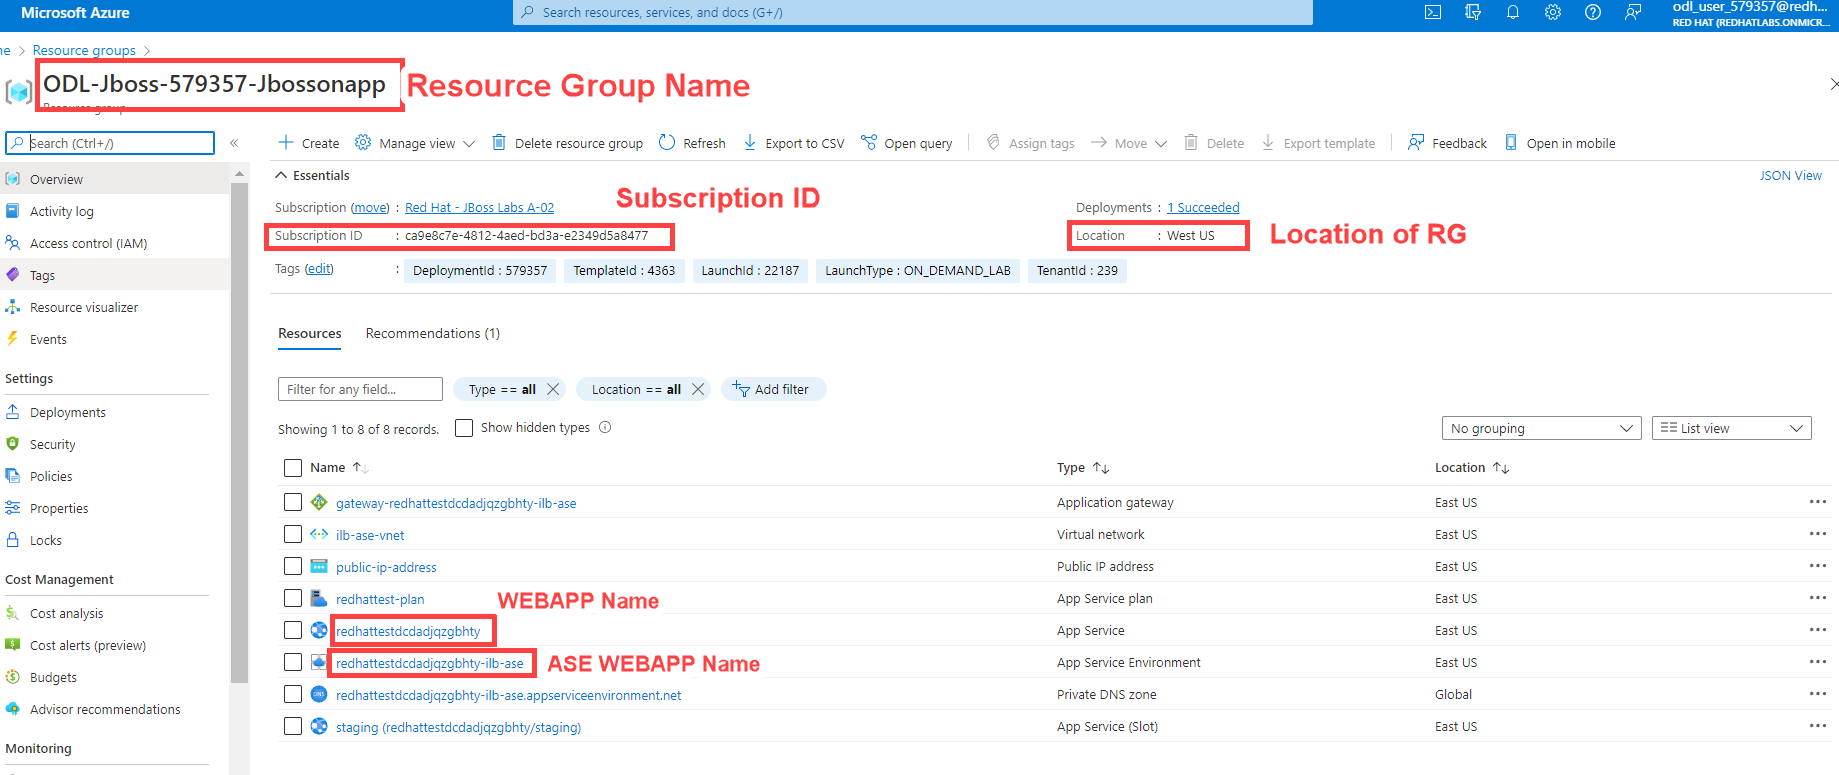
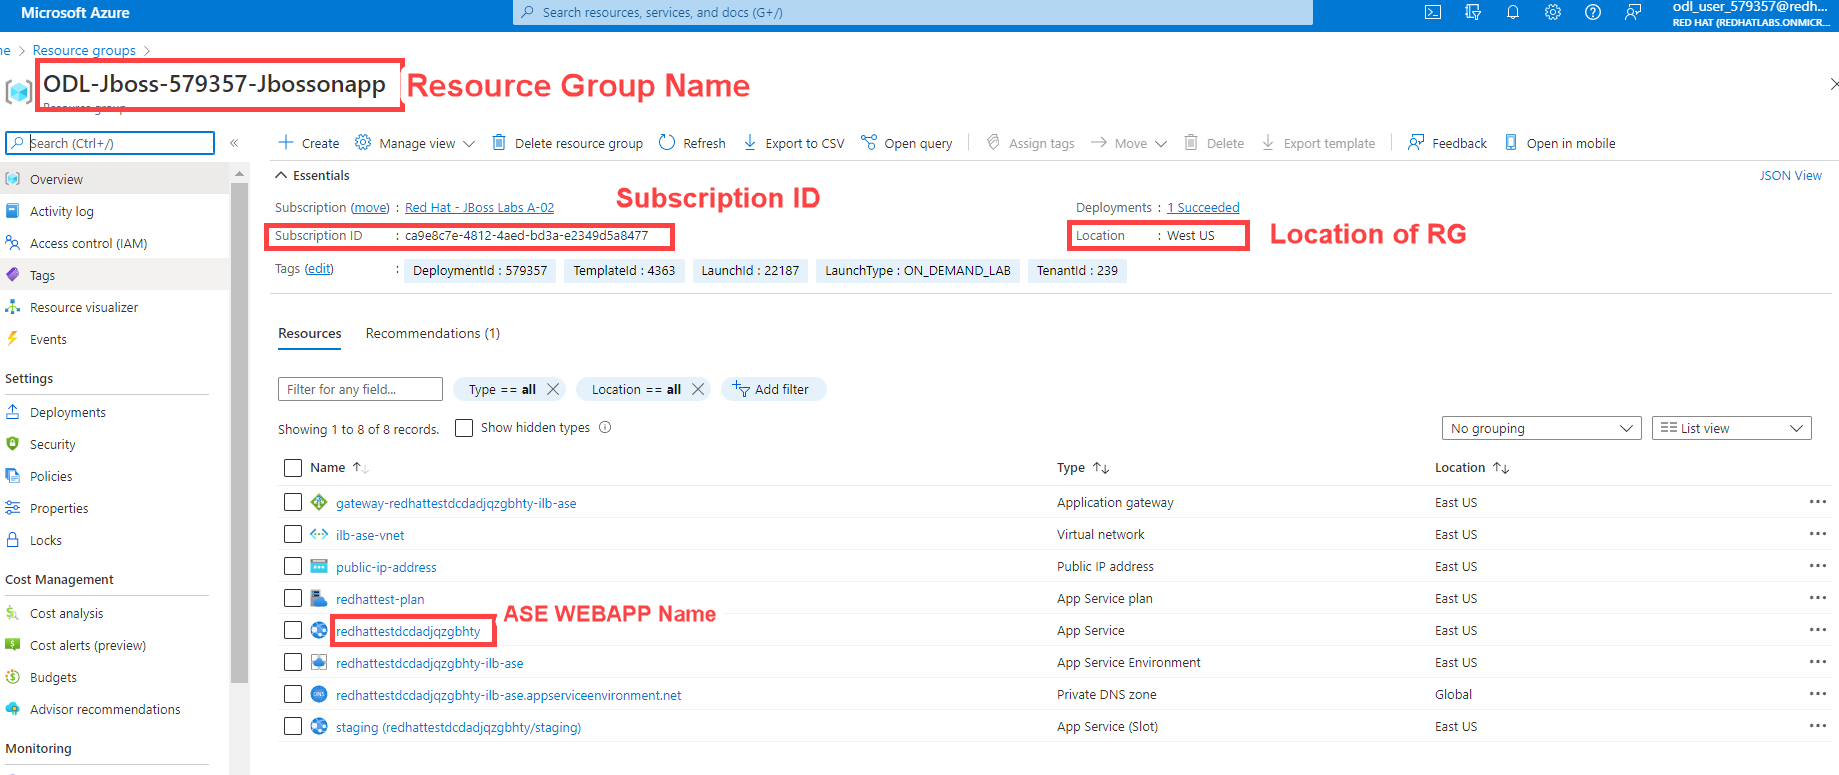
updated lab guide

Changed region(s): [[0.155, 0.8361, 0.4339, 0.8981], [0.248, 0.7432, 0.4029, 0.8052]]

diff --git a/instructions/1-environment-setup.md b/instructions/1-environment-setup.md
@@ -74,50 +74,19 @@ The exercises in this workshop will involve creating and configuring resources f
     Use the credential provided by Cloudlabs to Login.
 
     ![cloudlabs-creds](../img/0-cloudlabs-creds.png)
-
-* **Resource Group:**
     
     Go to [Azure Portal](https://portal.azure.com/) and search **Resource Groups**.
 
     ![Resource Groups](../img/0-ResourceGroup.png)
     
-    Select **Resource Groups** and Note down the existing Resource Group name. (*You will be using the value further in the exercise*)
+    Select **Resource Groups** and Note down the values. (*You will be using the value further in the exercise*)
 
-    ![Resource Groups](../img/0-ResourceGroup-Name.png)
+    ![Resource Groups](../img/0-aio.png)
 
-* **Location:**
-
-    Go to [Azure Portal](https://portal.azure.com/) and search **Resource Group**.
-
-    ![Resource Groups](../img/0-ResourceGroup.png)
-    
-    Select **Resource Group** and Note down the existing resource group  Location name. (*You will be using the value further in the exercise*)
-
-    ![Resource Groups](../img/0-ResourceGroup-Location.png)
-
-* **Subscription ID**
-
-    Go to [Azure Portal](https://portal.azure.com/) and search **Subscription**.
-
-    ![Subscription](../img/0-Subscription.png)
-
-     Select **Subscription** and Note down the Subscription ID. (*You will be using the value further in the exercise*)
-
-    ![Subscription](../img/0-Subscription-id.png)
-
-> **HINT**: You can discover your Subscription ID with `az account show | jq -r .id`
-
-* **App Service Name**
-
-    Go to [Azure Portal](https://portal.azure.com/) and search **App Service**.
-
-    ![ASE-WEBAPP-NAME](../img/0-app-service-ase.png)
-
-    Select **App Service** and Note down the existing app service Name. (*You will be using the value further in the exercise*) 
-
-    This should be unique for everyone.
-
-    ![ASE-WEBAPP-NAME](../img/0-app-service-ase-name.png)
+    * Resource Group Name
+    * Subscription ID
+    * Location
+    * ASE Webapp Name
 
 ## 1.3 - Configure the workspace
 
@@ -134,7 +103,7 @@ Replace the entire file with the below content, and then replace the placeholder
         "SUBSCRIPTION_ID": "[Your Azure Subscription ID]",
 
         //Obtain your unique ASE_WEBAPP_NAME with hint above. This will be different than the WEBAPP_NAME
-        "ASE_WEBAPP_NAME": "[Paste the app service environment name here]",
+        "ASE_WEBAPP_NAME": "[Paste the webapp name here]",
 
         // these must be unique to you. User should assign a unique value to below variables.
         "DB_SERVER_NAME": "[Unique-value]-postgres-database",

diff --git a/instructions/5-set-up-github-actions.md b/instructions/5-set-up-github-actions.md
@@ -170,6 +170,8 @@ re-visit your running app via its URL and it should now be sporting your new bis
 
 **Congratulations!** In this exercise you setup GitHub Actions to provide basic checks for your app when developers make changes, and created another Action to deploy those changes to your Azure App Service with JBoss EAP. You then deployed your app, and made a change, and watched the GitHub Action automate the redeployment. In the next section we'll explore how you can provide greater scale and security for your applications using _App Service Environments_.
 
+<br>
 
 Proceed to the next section.
+
 ---

diff --git a/instructions/2-learn-about-app-service.md b/instructions/2-learn-about-app-service.md
@@ -126,5 +126,8 @@ The EAP log content is found in the `LogFiles/Application/server.xxxxx.log` file
 
 > **NOTE** Logs can be configured with a number of options. Consult the [az webapp log docs](https://docs.microsoft.com/en-us/cli/azure/webapp/log?view=azure-cli-latest) for more details.
 
+<br>
+
 *Congratulations!* You created a new Azure Web App running JBoss EAP, but you have not deployed any app to it yet. Proceed to the next section to migrate a WebLogic app to JBoss EAP.
+
 ---

diff --git a/instructions/4-create-postgres-on-azure.md b/instructions/4-create-postgres-on-azure.md
@@ -183,5 +183,8 @@ If you then browse your your GitHub repository in a separate tab (e.g. _https://
 
 **Congratulations!** You now have deployed a PostgreSQL database and connected it to your JBoss EAP instance running on App Service, but you have not yet deployed any application to EAP. In the next section, you will set up automation to deploy and redeploy the app each time you wish to make a change.
 
+<br>
+
 Proceed to the next section.
+
 ---

diff --git a/instructions/7-deploy-to-staging-slots.md b/instructions/7-deploy-to-staging-slots.md
@@ -47,5 +47,8 @@ This section used asymmetric routing on the App Gateway to route requests from t
 
 Asymmetric routing worked in the context of this workshop, but it can cause problems... for example if a path of our production application included `/pr-1`, then users would be routed to that staging environment (`pr-1.internal`) instead of the path of the production app.
 
+<br>
+
 Proceed to the next section.
+
 ---

diff --git a/instructions/3-migrate-weblogic-to-jboss.md b/instructions/3-migrate-weblogic-to-jboss.md
@@ -515,5 +515,8 @@ It will open a new web browser to showcase the CoolStore web app:
 
 Now that you have migrated an existing Java EE app on JBoss EAP, you are ready to start modernizing the application by deploying it on Azure App Service in incremental steps, and employing modern techniques to ensure the application runs well in a distributed and cloud environment.
 
+<br>
+
 Procced to the next section.
+
 ----

diff --git a/instructions/8-conclusion.md b/instructions/8-conclusion.md
@@ -13,4 +13,5 @@ az group delete --name $RESOURCE_GROUP --yes
 ## 8.2 - Provide Feedback
 
 Have feedback, a suggestion, or found a typo? Please let us know by [filing an issue on the GitHub Repository](https://github.com/Azure-Samples/workshop-migrate-jboss-on-app-service/issues/new).
+
 ---
